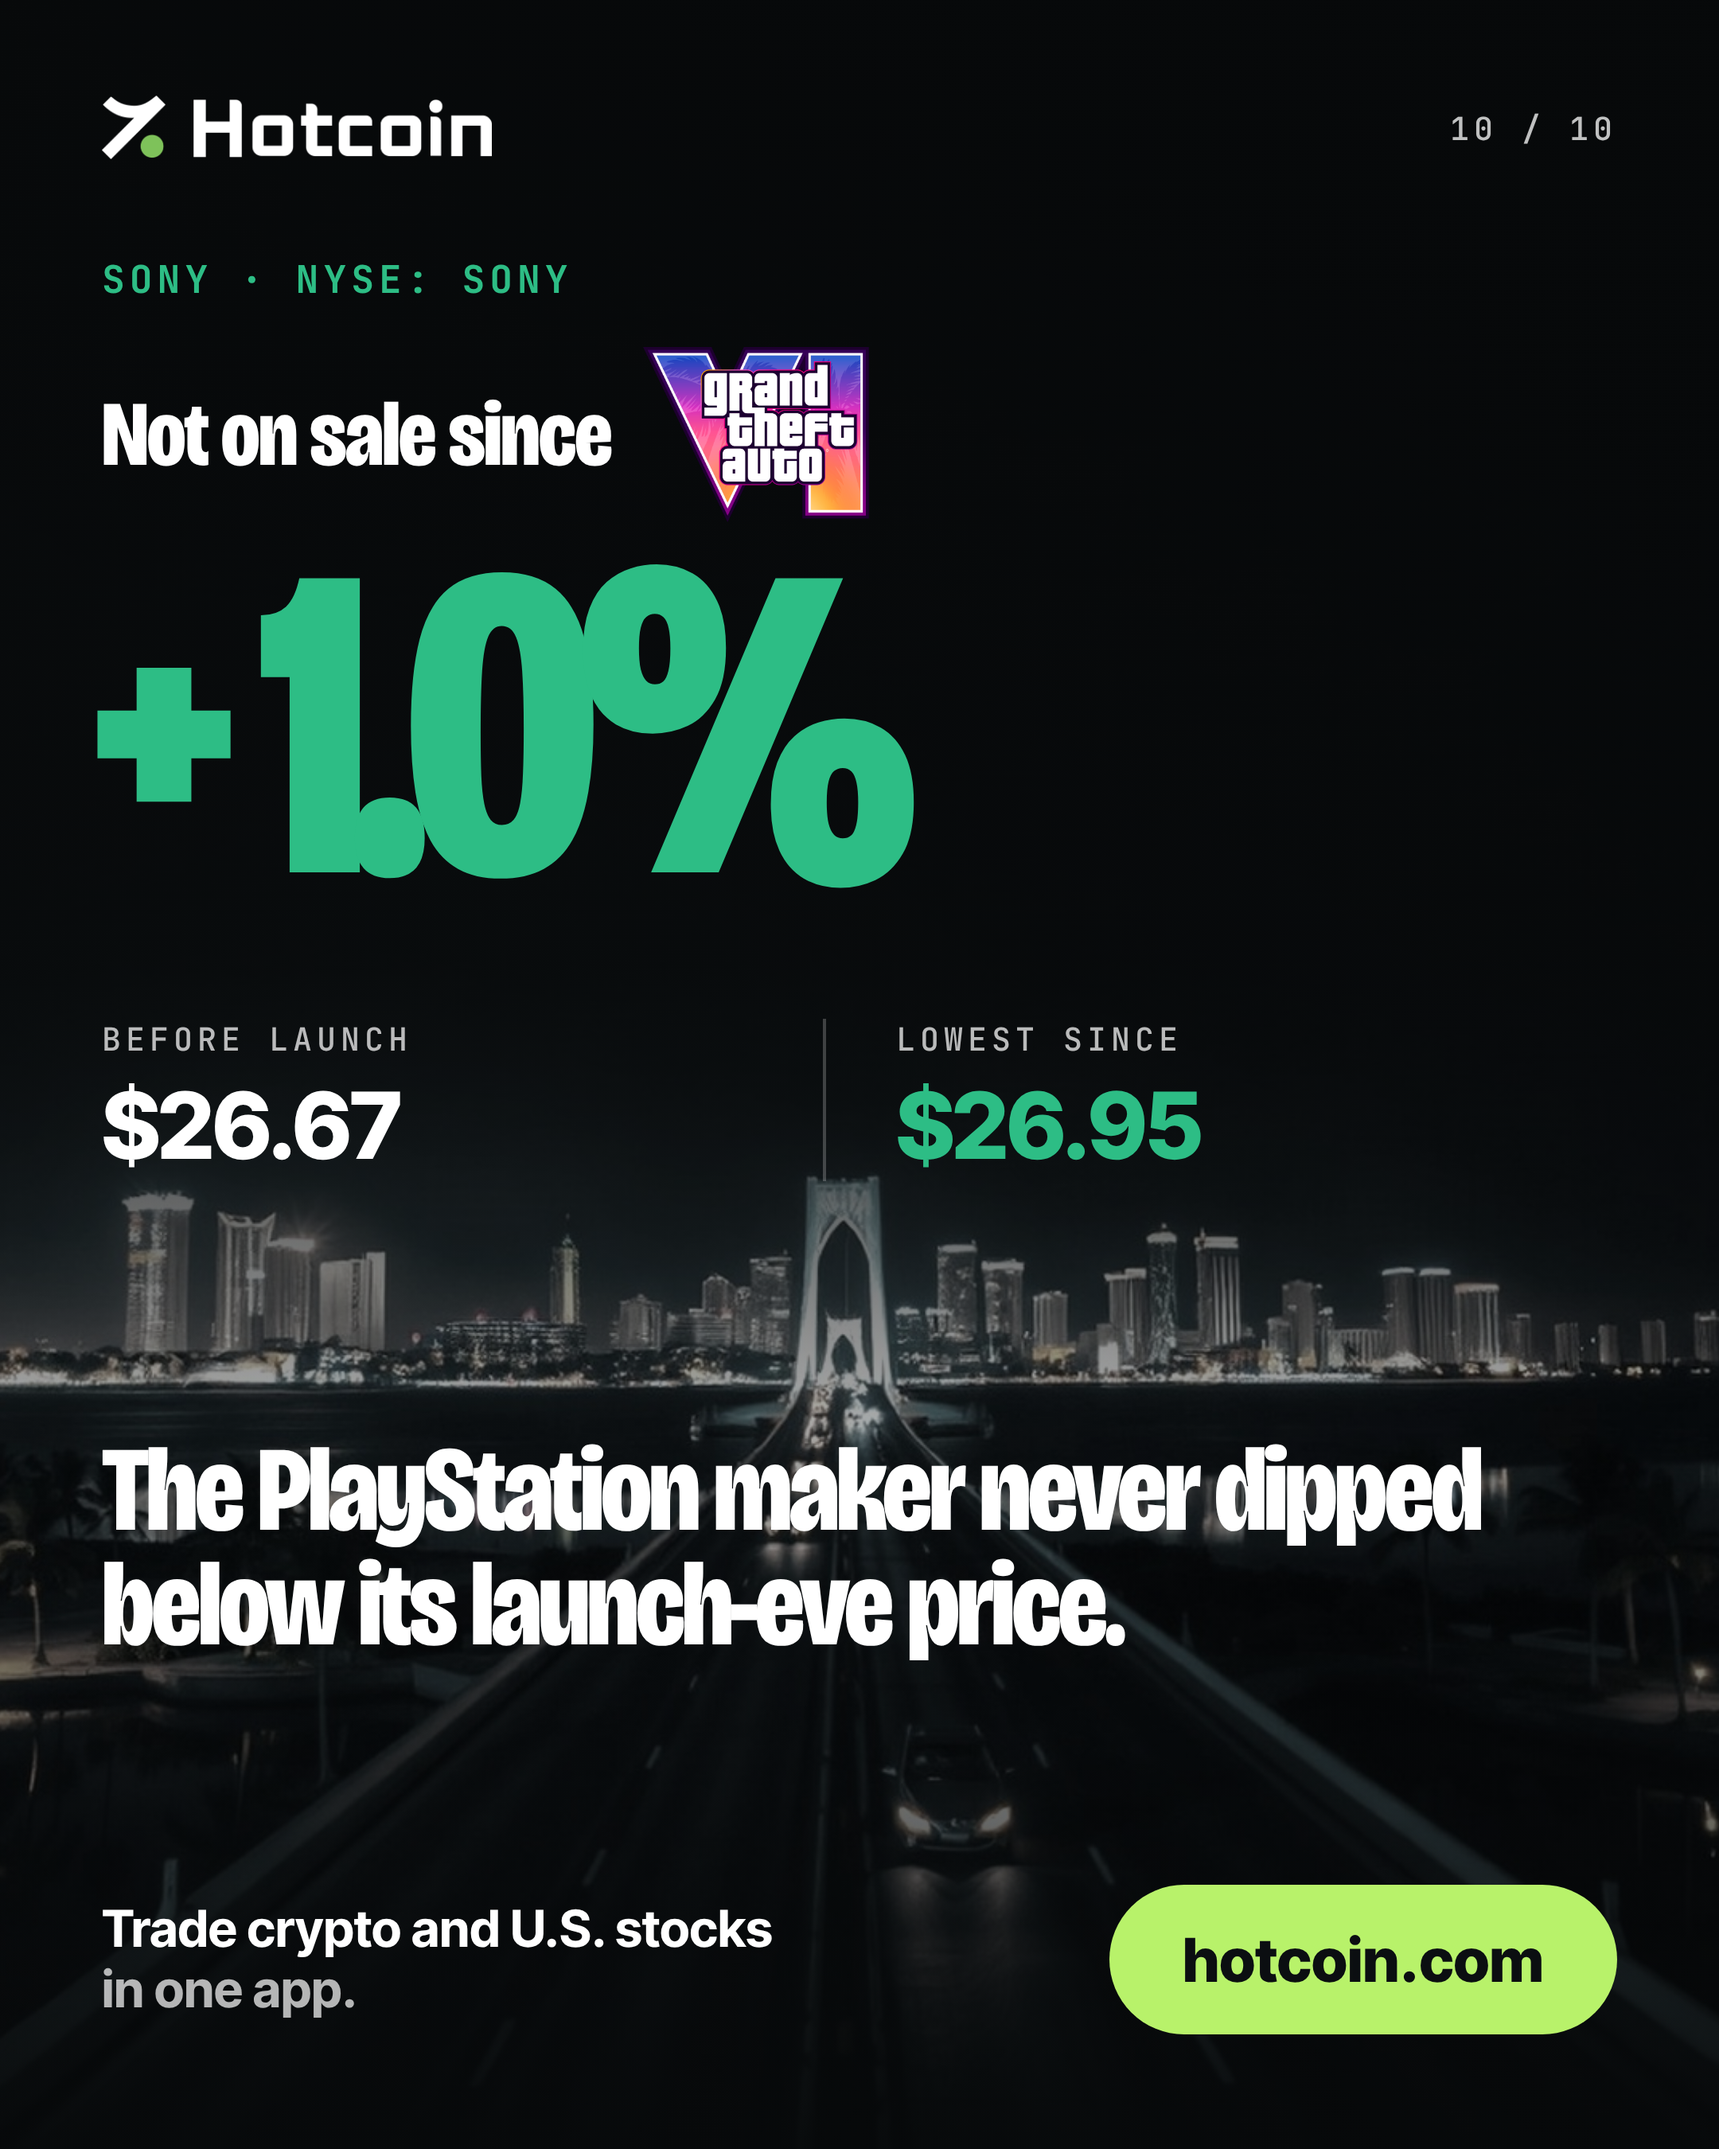
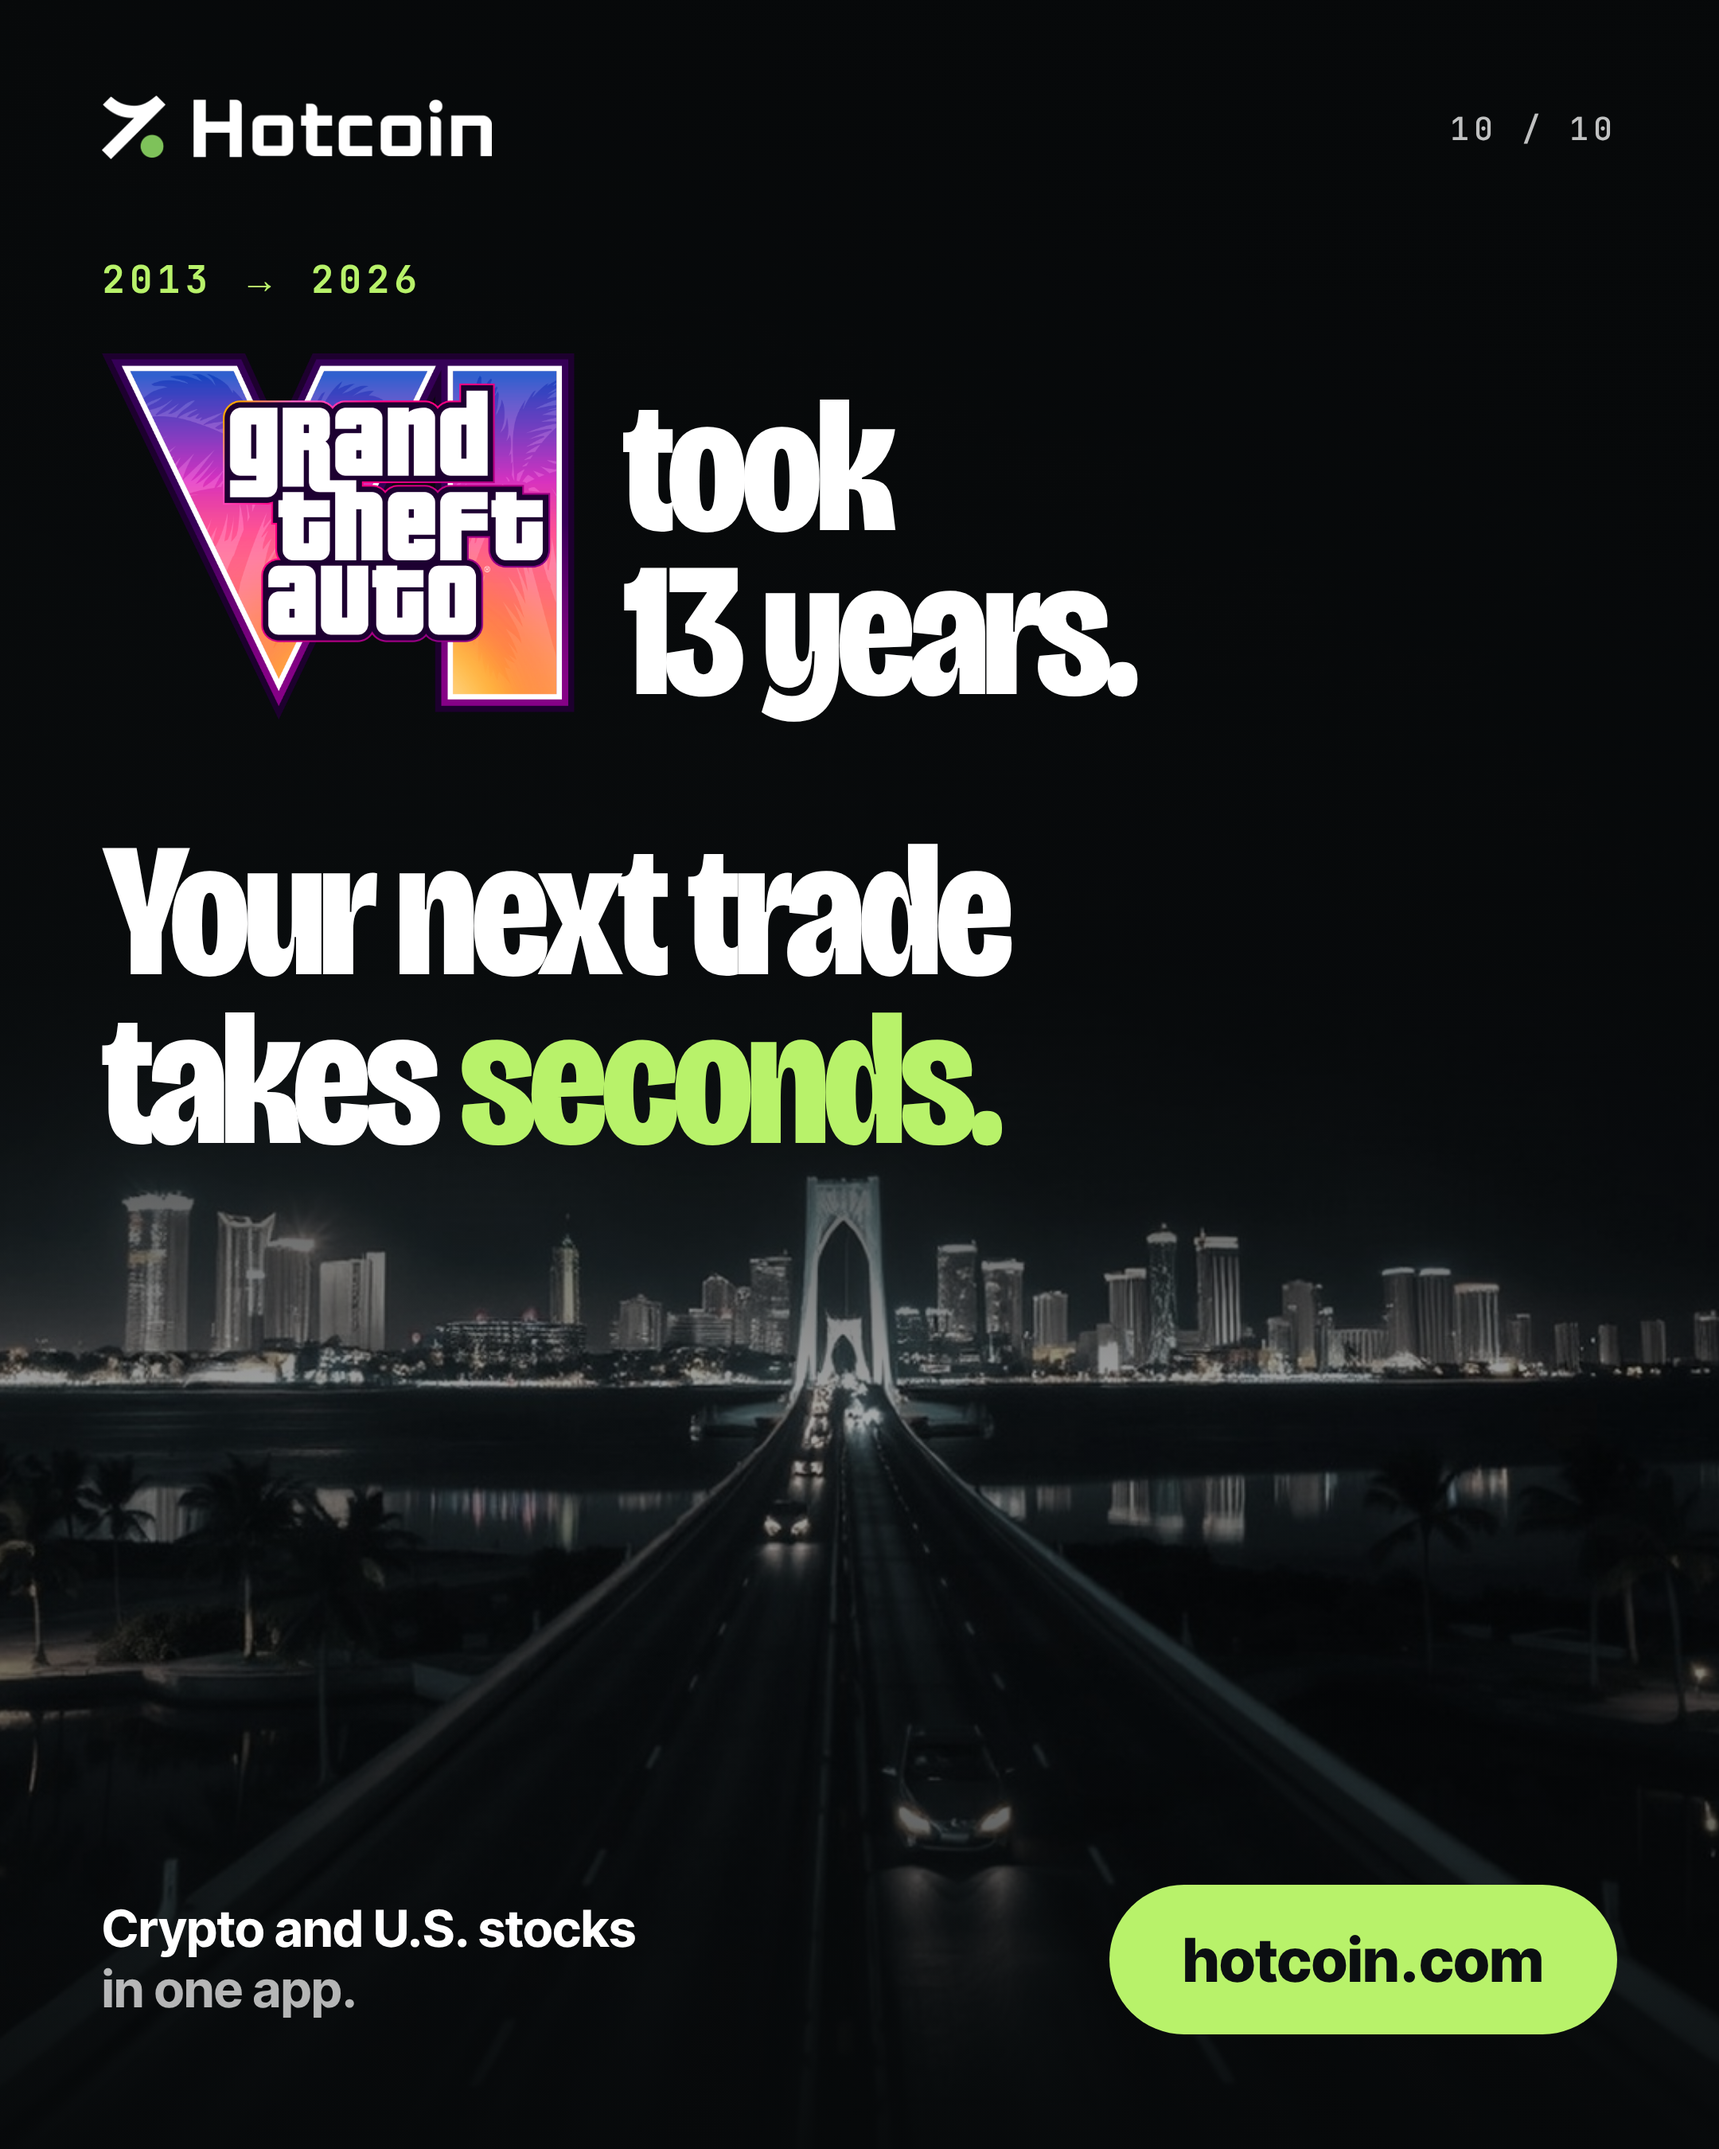
GTA VI carousel: spoiler-free cover hook, 13-years CTA replaces Sony slide
Claude-Session: https://claude.ai/code/session_018sSiMaWLaeVrJJ4axy8xGi

Changed region(s): [[0.062, 0.1244, 0.7134, 0.56], [0.062, 0.6533, 0.8685, 0.7778], [0.062, 0.8711, 0.4343, 0.9333]]

diff --git a/social/gta6-cheaper/x-post.md b/social/gta6-cheaper/x-post.md
@@ -1,10 +1,10 @@
 # GTA VI "went on sale" carousel (Nov 22, 2026)
 
-Slides: out/gta6-01.png to gta6-10.png (1080x1350 @2x). X shows max 4 images: post 01, 02 (BTC), 03 (NVDA), 10 (Sony + CTA).
+Slides: out/gta6-01.png to gta6-10.png (1080x1350 @2x). X shows max 4 images: post 01 (hook), 02 (BTC), 03 (NVDA), 10 (CTA).
 Numbers = last price before launch vs lowest price since launch (stocks Nov 18 close vs Nov 19 to 20 intraday low; crypto Nov 19 00:00 UTC vs lowest hourly low through Nov 22).
 
 ## X
-GTA VI is out. Almost everything else went on sale.
+GTA VI is out. The market crashed.
 
 Lowest price since launch:
 $NVDA −17.5%
@@ -15,17 +15,15 @@ $SOL −11.9%
 $TSLA −10.3%
 Gold −6.4%
 
-Only Sony held up 🎮 Which dip are you watching?
+GTA VI took 13 years. Your next trade takes seconds 🎮
 
 Not financial advice.
 
 ## Instagram
-GTA VI dropped on Nov 19. The market had other plans 📉
+GTA VI dropped on Nov 19. So did the market 📉
 
 Lowest price since launch, vs the day before:
 Nvidia −17.5% · Dogecoin −13.6% · Ether −13.5% · Bitcoin −12.6% · Solana −11.9% · Tesla −10.3% · Gold −6.4% · Take-Two −7.7%
-
-The one thing not on sale: Sony, the PlayStation maker, +1.0%.
 
 Trade crypto and U.S. stocks in one app: hotcoin.com
 
